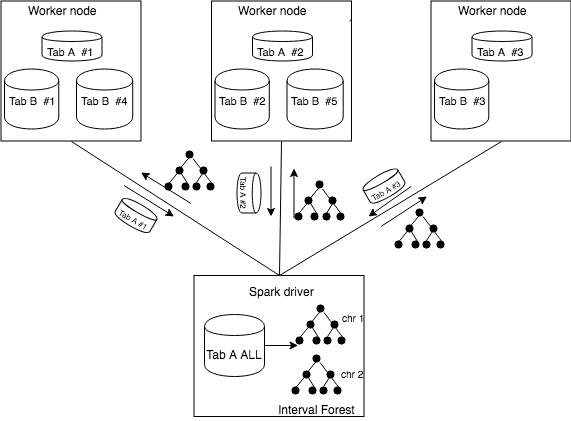
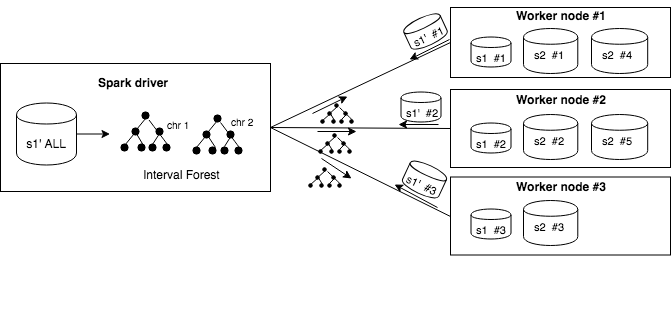
architecture section updated

Changed region(s): [[0.0, 0.0, 1.0, 1.0], [0.4168, 0.5988, 0.4466, 0.6287], [0.0, 0.5689, 0.0298, 0.5988]]

diff --git a/docs/source/architecture/architecture.rst b/docs/source/architecture/architecture.rst
@@ -4,9 +4,10 @@ Architecture
 Overview
 #########
 
-The core concept that we have implemented in SeQuiLa is substituting the join strategy chosen by Spark by default to more efficient one, based on broadcasting interval tree data structure from driver nodes to worker nodes.
 
-The main idea is as follows. Let's assume we have genomic intervals (with three genomic coordinates: `chromosome`, `start position`, `end position` and additional annotations) stored in table s1 (smaller) and table s2 (bigger).
+SeQuiLa is a distributed, ANSI-SQL compliant solution for efficient genomic intervals querying and processing that is available as an additional Apache Spark package. In the runtime it extends Apache SparkSQL Catalyst optimizer with custom execution strategies utilizing distributed interval forests based map joins for inner join operations using range conditions. 
+
+Consider datasets $s1$ and $s2$, storing genomic intervals, such as $|s1|$<$|s2|$. Let's assume that their structure containc necessary genomic coordinates (`chromosome`, `start position`, `end position`) along with optional additional interval annotations (e.g. targetId). 
 
 .. figure:: structure.*
     :scale: 80
@@ -24,16 +25,18 @@ Our goal is to efficiently perform query as shown below:
     AND s1.start<=s2.end
     GROUP BY targetId;
 
+The main idea of the algorithm is to transform dataset $s1$ into a broadcastable structure of an interval forest (a hash map of interval trees, each representing one chromosome). The intervals from dataset $s2$ can be efficiently intersected with the constructed interval forest.
+
 
 Let's additionally presume that we have a cluster with one Spark driver, three worker nodes and that the tables are partitioned between worker nodes.
 
 
-.. figure:: broadcasting.*
+.. figure:: broadcast.*
 	:scale: 80
 
 	Broadcasting interval forest to worker nodes.
 
-When interval query is performed, all table A partitions are sent to the driver node in which interval forest is built (for each chromosome a separate interval tree is being created).  The forest is subsequently sent back to worker nodes in which efficient interval operations based on interval trees are performed. 
+When interval query is performed, all dataset's s1 partitions are sent to the driver node in which interval forest is built (for each chromosome a separate interval tree is being created).  The forest is subsequently sent back to worker nodes in which efficient interval operations based on interval trees are performed. Depending on the strategy chosen by rule-based optimizer different set of columns are stored in tree nodes
 
 
 Interval Tree
@@ -52,10 +55,10 @@ It can be proved that this structure allows for correct interval insertion, dele
 Our implementation of IntervalTree is based on explanations in [CLR]_ although it is extended in the following way:
 
 * data structure allows storing non-unique intervals 
-* data structure allows storing additional interval attributes if 
+* data structure allows storing in the tree noded additional interval annotations if they fit into dedicated Spark driver's memory fraction
 
 
-
+.. [CLR] Cormen, Thomas H.; Leiserson, Charles E., Rivest, Ronald L. (1990). Introduction to Algorithms (1st ed.). MIT Press and McGraw-Hill. ISBN 0-262-03141-8
 
 
 
@@ -63,19 +66,43 @@ Rule Based Optimizer
 ####################
 
 SeQuiLa package introduces a new rule based optimizer (RBO) that chooses most efficient join strategy based on
-input data statistics computed in the runtime. The first step of the algorithm is to obtain value of `spark.biodatageeks.rangejoin.maxBroadcastSize` parameter. It can set explicite by the end user or computed as a fraction of the Apache Spark Driver memory.
+input data statistics computed in the runtime. The first step of the algorithm is to obtain value of `maxBroadcastSize` parameter. It can set explicite by the end user or computed as a fraction of the Apache Spark Driver memory.
 In the next step table row counts are computed and based on that table with the fewer rows is selected for constructing interval forest. This is the default approach - it can be overridden by setting
-`spark.biodatageeks.rangejoin.useJoinOrder` to `true`. In this scenario no row counts are computed and the right join table is used for creating interval forest. Such an strategy can be useful in situation when it is known upfront which table should be used for creating a broadcast structure. The final step of the optimization procedure is to estimate the row size and the size of the whole table.
-If this number is lower than the max broadcast size parameter computed above then complete table rows are put in the interval tree broadcast structure otherwise only intervals identifiers are used.
-
-.. image:: rbo.*
-	:scale: 90
+`spark.biodatageeks.rangejoin.useJoinOrder` to `true`. In this scenario no row counts are computed and the right join table is used for creating interval forest. Such an strategy can be useful in situation when it is known upfront which table should be used for creating a broadcast structure. 
+The final step of the optimization procedure is to estimate the row size and the size of the whole projected table.
+If it fits into dedicated Spark Driver's memory (controlled by maxBroadcastSize parameter) the interval forest is augmented with all columns from s1 (SeQuiLa_it_all strategy) completing map-side join procedure in one stage. Otherwise an interval tree is used as an index for additional lookup step before equi-shuffle-join operation between s1 and s2 (SeQuiLa_it_int strategy).
 
 
-.. [CLR] Cormen, Thomas H.; Leiserson, Charles E., Rivest, Ronald L. (1990). Introduction to Algorithms (1st ed.). MIT Press and McGraw-Hill. ISBN 0-262-03141-8
+.. figure:: rbo.*
+    :scale: 100
+
+    Rule-based optimizer's algorithm chooses the most efficient join strategy.
 
 
-Ecosystem
-##########
+
+
+
+System structure
+################
+
+SeQuiLa has been developed in Scala using Apache Spark 2.2 environment. In runtime it extends SparkSQL Catalyst optimizer with custom execution strategies. It implements distributed map joins using interval forest for inner range join operations. Useful genomic transformations have been added as User Defined Functions/Aggregates and exposed to the SQL interface. Furthermore, SeQuiLa data sources for both BAM and ADAM file formats have been implemented.
+It can be integrated with third-party tools using SparkSQL JDBC driver and with R using sparklyr package. SeQuiLa is also available as a Docker container and can be run locally or on a Hadoop cluster using Yet Another Resource Negotiator
+
+.. figure:: components.*
+    :scale: 100
+
+    SeQuiLa's structure.
+
+
+Usage patterns
+###############
+
+SeQuiLa can be used in different ways. Specifically it supports ad-hoc research, which is typically focused on quick analysis on files. Depending on your preferences you can use predefined scripts (findOverlaps and featureCounts) or write your own code snippets within spark-shell or our bdg-shell. Additionally SeQuiLa also can be used along with your existing applications written in Scala/Spark, R or any other language/platform.
+
+
+.. figure:: usage_all.*
+    :scale: 100
+
+    SeQuiLa supports both file-oriented and data-oriented approach for analysis. Custom analysis can be written in R, Python or Scala.
 
 
